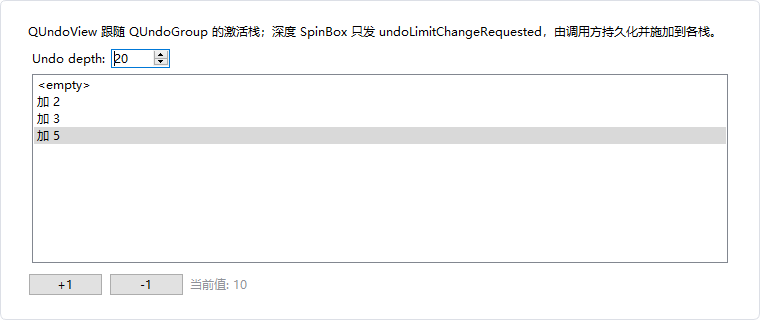
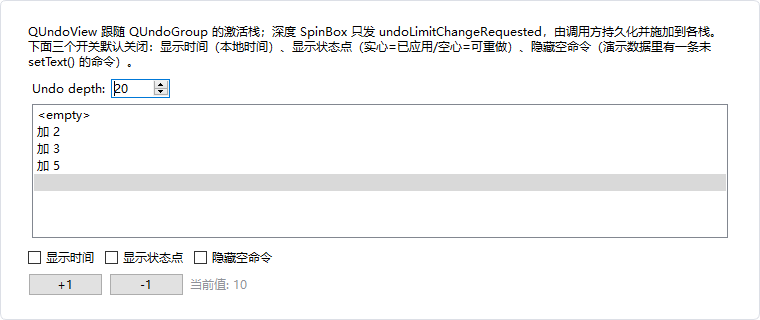
docs(undo-history): 补时间/状态点与空命令说明（中文/English）

Changed region(s): [[0.0303, 0.125, 0.9684, 0.5938], [0.0303, 0.7812, 0.3632, 0.8438]]

diff --git a/docs/en/use-guide/undo-overlay.md b/docs/en/use-guide/undo-overlay.md
@@ -15,6 +15,8 @@ The history list comes from three commands pre-pushed by the demo; clicking any 
 - ✅ **Follows the active stack**: after `setUndoGroup(QUndoGroup*)`, it shows the current page's history
 - ✅ **Click to undo/redo**: reuses `QUndoView` interaction
 - ✅ **Depth entry**: `undoLimit()` / `setUndoLimit()`; spin-box changes only emit a signal
+- ✅ **Timestamps and state dots** (optional): push time and applied/re-doable state per row, off by default
+- ✅ **Empty-command fallback** (optional): hide rows with empty text, off by default
 - ✅ **Clean layering**: the widget does not read configuration or walk data-page stacks
 
 ### Usage
@@ -37,6 +39,31 @@ QObject::connect(history, &DA::DAUndoHistoryWidget::undoLimitChangeRequested,
                  [](int limit) { qDebug() << "new undo depth:" << limit; });
 ```
 
+### Timestamps and State Dots
+
+```cpp
+history->setTimestampsVisible(true);   // default false: push time on the right of every row
+history->setIconsVisible(true);        // default false: filled = applied, hollow = redoable
+
+// Indexed by QUndoStack index (not the view row)
+QDateTime t = history->commandTimestamp(0);
+```
+
+- Time uses the fixed `HH:mm:ss` format in local time and lives only in this process's memory; it is never written to `QSettings`.
+- The time is recorded when a command is pushed: undo/redo only move the pointer and never change existing timestamps; when a new command truncates the redo branch, the old timestamps are dropped with it.
+- With both switches off nothing changes — no pixels, no row height. When on, the widget only paints in the left/right margins of each row.
+- State dots are derived from `QUndoStack::index()`; the host does not need to attach data to commands.
+
+### Empty Command Fallback
+
+```cpp
+history->setEmptyCommandFilterEnabled(true);   // default false
+```
+
+- When enabled, rows whose `text().trimmed().isEmpty()` are hidden, enforcing the existing "no blank entries in the panel" rule.
+- The initial-state row (the first `QUndoView` row) is never hidden; hiding is recomputed after a stack switch or model reset.
+- Off by default; without the call the behavior is identical to before.
+
 ### Core Methods
 
 | Method | Description |
@@ -44,6 +71,10 @@ QObject::connect(history, &DA::DAUndoHistoryWidget::undoLimitChangeRequested,
 | `setUndoGroup(QUndoGroup*)` / `undoGroup()` | Bind/get the undo group |
 | `undoLimit()` / `setUndoLimit(int)` | Read/inject depth (`setUndoLimit` emits no signal) |
 | `undoLimitChangeRequested(int)` | Emitted when the user changes the depth |
+| `setTimestampsVisible(bool)` / `timestampsVisible()` | Show push time per row (default off) |
+| `setIconsVisible(bool)` / `iconsVisible()` | Show state dots per row (default off) |
+| `setEmptyCommandFilterEnabled(bool)` / `isEmptyCommandFilterEnabled()` | Hide empty-text commands (default off) |
+| `commandTimestamp(int)` | Push time of a command; invalid when out of range |
 
 ## DAAbstractWidgetOverlay
 

diff --git a/docs/use-guide/undo-overlay.md b/docs/use-guide/undo-overlay.md
@@ -15,6 +15,8 @@
 - ✅ **跟随激活栈**：`setUndoGroup(QUndoGroup*)` 后自动显示当前激活页面的历史
 - ✅ **点击回退/前进**：复用 `QUndoView` 的交互
 - ✅ **深度调节入口**：`undoLimit()` / `setUndoLimit()`，SpinBox 变化只发信号
+- ✅ **时间与状态点**（可选）：每行显示入栈时刻与已应用/可重做状态，默认关闭
+- ✅ **空命令兜底**（可选）：隐藏空文本命令行，默认关闭
 - ✅ **分层清晰**：控件不读配置、不遍历各数据页撤销栈
 
 ### 用法
@@ -37,6 +39,31 @@ QObject::connect(history, &DA::DAUndoHistoryWidget::undoLimitChangeRequested,
                  [](int limit) { qDebug() << "新的撤销深度:" << limit; });
 ```
 
+### 时间与状态点
+
+```cpp
+history->setTimestampsVisible(true);   // 默认 false：每行右侧显示入栈时刻
+history->setIconsVisible(true);        // 默认 false：左侧实心=已应用，空心=可重做
+
+// 按 QUndoStack 下标查询（不是视图行号）
+QDateTime t = history->commandTimestamp(0);
+```
+
+- 时间格式固定 `HH:mm:ss`，取本地时间，只存在本次进程内存里，不写 `QSettings`。
+- 时间在命令入栈时记录：undo/redo 只移动指针，不改变已有时间；redo 分支被新命令截断时，旧时间一并丢弃。
+- 两个开关都关闭时不改变任何像素与行高；打开后仅在行内左右留白补画。
+- 状态点由 `QUndoStack::index()` 推导，不需要宿主给命令附加数据。
+
+### 空命令兜底
+
+```cpp
+history->setEmptyCommandFilterEnabled(true);   // 默认 false
+```
+
+- 打开后 `text().trimmed().isEmpty()` 的命令行会被隐藏，兜住「面板里不允许空白条目」的既有约定。
+- 初始状态行（`QUndoView` 的第一行）永不隐藏；换栈或模型重置后会重新计算隐藏状态。
+- 默认关闭，未调用时与改动前完全一致。
+
 ### 核心方法
 
 | 方法 | 说明 |
@@ -44,6 +71,10 @@ QObject::connect(history, &DA::DAUndoHistoryWidget::undoLimitChangeRequested,
 | `setUndoGroup(QUndoGroup*)` / `undoGroup()` | 绑定/获取撤销组 |
 | `undoLimit()` / `setUndoLimit(int)` | 读取/注入深度（`setUndoLimit` 不发信号） |
 | `undoLimitChangeRequested(int)` | 用户修改深度时发射 |
+| `setTimestampsVisible(bool)` / `timestampsVisible()` | 每行显示入栈时刻（默认关闭） |
+| `setIconsVisible(bool)` / `iconsVisible()` | 每行显示状态点（默认关闭） |
+| `setEmptyCommandFilterEnabled(bool)` / `isEmptyCommandFilterEnabled()` | 隐藏空文本命令（默认关闭） |
+| `commandTimestamp(int)` | 查询命令入栈时刻；越界返回无效值 |
 
 ## DAAbstractWidgetOverlay
 
